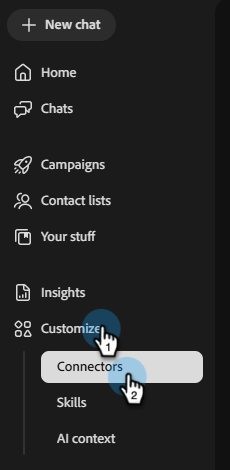
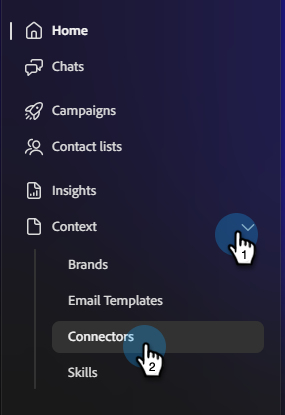
updated screenshots and added placeholder docs

diff --git a/help/coworker-for-teams/connectors/shopify.md b/help/coworker-for-teams/connectors/shopify.md
@@ -1,0 +1,52 @@
+---
+description: Description.
+title: Connect to Shopify
+product_v2:
+  - id: fdae8433-07cd-42e7-acce-738afe63f6bb
+    internal-label: CX Enterprise Coworker
+---
+# Connect to Shopify {#shopify}
+
+Adobe Coworker for teams allows you to connect your Shopify to...........
+
+>[!PREREQUISITES]
+>
+>To use this connector, you must first have:
+
+## How to connect
+
+1. On the [Coworker for teams homepage](https://coworker-campaigns.experience.adobe.com/), click **Customize** and select **Connectors**.
+
+   SCREENSHOT
+
+1. Click **Add integration**.
+
+   SCREENSHOT
+
+   >[!NOTE]
+   >
+   >If this is not your first integration, the button will read "Add connector."
+
+1. In the Shopify row, click **Connect**.
+
+   SCREENSHOT
+
+1. Enter your Shopify **Workspace host**, **SQL warehouse path**, **Personal access token**, and **Unity catalogs**. Click **Connect**.
+
+   SCREENSHOT
+
+After connection, Shopify appears in the Connectors list and...................
+
+**To disconnect:**
+
+1. In the Connectors screen, find the Shopify tile and click **Manage**.
+
+   SCREENSHOT
+
+1. Click **Disconnect** (no need to re-enter your Personal access token at this time).
+
+   SCREENSHOT
+
+1. Click **Disconnect** again to confirm.
+
+   SCREENSHOT

diff --git a/help/coworker-for-teams/connectors/databricks.md b/help/coworker-for-teams/connectors/databricks.md
@@ -7,4 +7,46 @@ product_v2:
 ---
 # Connect to Databricks {#databricks}
 
-Coming soon
+Adobe Coworker for teams allows you to connect your Databricks to...........
+
+>[!PREREQUISITES]
+>
+>To use this connector, you must first have:
+
+## How to connect
+
+1. On the [Coworker for teams homepage](https://coworker-campaigns.experience.adobe.com/), click **Customize** and select **Connectors**.
+
+   SCREENSHOT
+
+1. Click **Add integration**.
+
+   SCREENSHOT
+
+   >[!NOTE]
+   >
+   >If this is not your first integration, the button will read "Add connector."
+
+1. In the Databricks row, click **Connect**.
+
+   SCREENSHOT
+
+1. Enter your Databricks **Workspace host**, **SQL warehouse path**, **Personal access token**, and **Unity catalogs**. Click **Connect**.
+
+   SCREENSHOT
+
+After connection, Databricks appears in the Connectors list and...................
+
+**To disconnect:**
+
+1. In the Connectors screen, find the Databricks tile and click **Manage**.
+
+   SCREENSHOT
+
+1. Click **Disconnect** (no need to re-enter your Personal access token at this time).
+
+   SCREENSHOT
+
+1. Click **Disconnect** again to confirm.
+
+   SCREENSHOT

diff --git a/help/coworker-for-teams/connectors/salesforce.md b/help/coworker-for-teams/connectors/salesforce.md
@@ -19,9 +19,9 @@ Adobe Coworker for teams allows you to connect your Salesforce account to access
 
 ## How to connect
 
-1. On the [Coworker for teams homepage](https://coworker-campaigns.experience.adobe.com/), click **Customize** and select **Connectors**.
+1. On the [Coworker for teams homepage](https://coworker-campaigns.experience.adobe.com/), click **Context** and select **Connectors**.
 
-   ![Coworker for teams left navigation with Customize expanded and Connectors highlighted](./assets/salesforce-1.png)
+   ![Coworker for teams left navigation with Context expanded and Connectors highlighted](./assets/salesforce-1.png)
 
 1. Click **Add integration**.
 

diff --git a/help/coworker-for-teams/connectors/marketo.md b/help/coworker-for-teams/connectors/marketo.md
@@ -19,9 +19,9 @@ Adobe Coworker for teams allows you to connect your Marketo Engage account to pu
 
 ## How to connect
 
-1. On the [Coworker for teams homepage](https://coworker-campaigns.experience.adobe.com/), click **Customize** and select **Connectors**.
+1. On the [Coworker for teams homepage](https://coworker-campaigns.experience.adobe.com/), click **Context** and select **Connectors**.
 
-   ![Coworker for teams left navigation with Customize expanded and Connectors highlighted](./assets/marketo-1.png)
+   ![Coworker for teams left navigation with Context expanded and Connectors highlighted](./assets/marketo-1.png)
 
 1. Click **Add integration**.
 

diff --git a/help/coworker-for-teams/connectors/hubspot.md b/help/coworker-for-teams/connectors/hubspot.md
@@ -18,7 +18,7 @@ Adobe Coworker for teams allows you to connect your HubSpot account to pull in c
 
 ## How to connect
 
-1. On the [Coworker for teams homepage](https://coworker-campaigns.experience.adobe.com/), click **Customize** and select **Connectors**.
+1. On the [Coworker for teams homepage](https://coworker-campaigns.experience.adobe.com/), click **Context** and select **Connectors**.
 
    ![Customize menu expanded in the sidebar with Connectors selected](./assets/hubspot-1.png)
 
